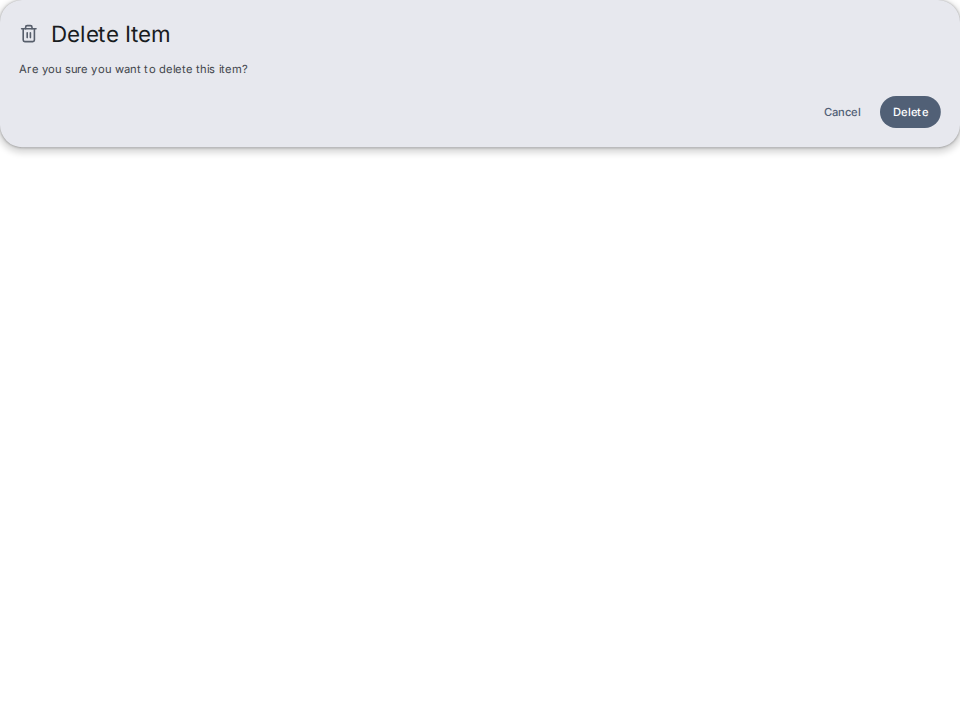
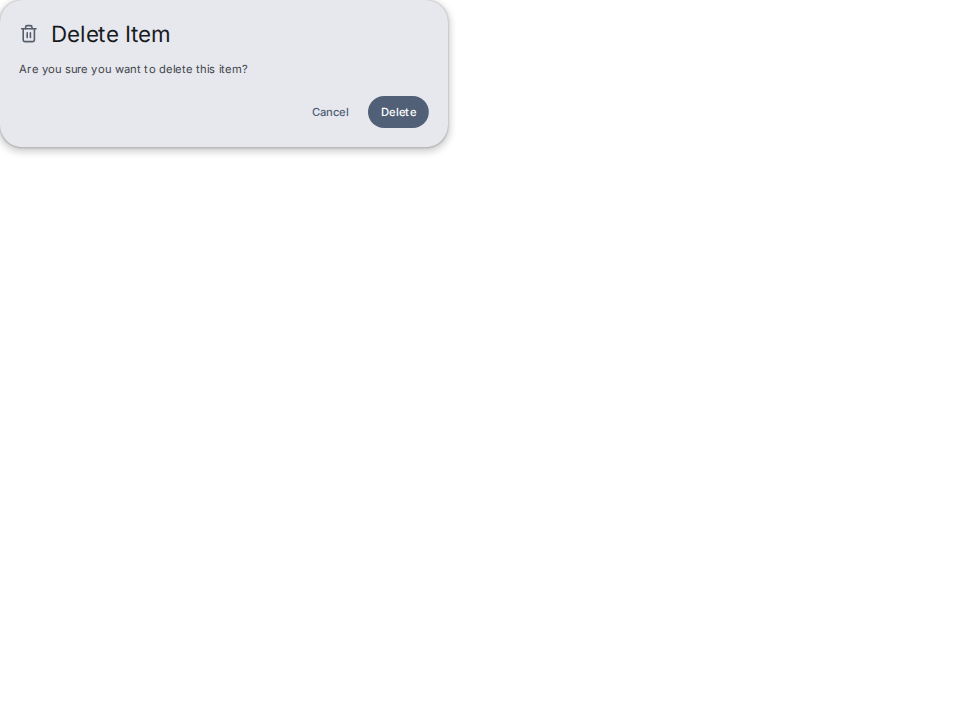
Dialog: Material's 560dp maximum, a destructive confirm, a hold while a request runs
Nine of the baseline's 22 builders met the dialog's limits. It had a minimum
width and no maximum, so long text ran the dialog across the window, and in
a modal it touched a phone's edges. Its two-action form always drew a
primary confirm, so a destructive answer meant writing both buttons by hand.
And while a confirm was loading, a second press, Cancel and Escape all still
worked.

DialogContent is now at most 560dp wide, Material's measure, and ModalDialog
keeps 16dp from the window's edges. An action takes color and isDisabled.
While an action is loading it takes no second press, the other is disabled,
and ModalDialog is dismissed by neither the scrim nor Escape.

Four dialog stories, drawn outside a modal at the window's width, are now
560dp wide: their pictures are re-baselined. One new test.

Changed region(s): [[0.3125, 0.1222, 1.0, 0.2139]]

diff --git a/components/DialogContent.tsx b/components/DialogContent.tsx
@@ -6,7 +6,8 @@ import Button from "./Button";
 
 export const styles = tv({
   slots: {
-    base: "bg-surface-container-high rounded-shape-extra-large p-6 min-w-[280px] w-full shadow-elevation-3 outline-hidden relative overflow-hidden",
+    // Material's basic dialog: at least 280dp wide, at most 560dp.
+    base: "bg-surface-container-high rounded-shape-extra-large p-6 min-w-[280px] max-w-[560px] w-full shadow-elevation-3 outline-hidden relative overflow-hidden",
     header: "mb-4",
     icon: "text-secondary",
     // No weight here: the headline this styles is `Headline`, and its weight
@@ -34,7 +35,13 @@ export type { IconProp };
 type ActionConfig = {
   label: string;
   onPress?: () => void;
+  /** The request this action started is running: it draws a spinner and
+   *  takes no second press. While `confirm` is loading, `cancel` is
+   *  disabled, and `ModalDialog` is not dismissed. */
   isLoading?: boolean;
+  isDisabled?: boolean;
+  /** `"error"` for an action that destroys something: "Delete", "Discard". */
+  color?: "primary" | "error";
 };
 
 type Actions = {
@@ -73,6 +80,19 @@ export type DialogContentProps =
  * nothing else is drawn, the `title` included: write the headline yourself
  * (`<Headline size="medium">`).
  *
+ * `actions` is two buttons, `{ confirm, cancel }`, each a `label`, an
+ * `onPress`, and `isLoading`, `isDisabled` and `color` where needed, or an
+ * element of your own:
+ *
+ *   actions={{
+ *     cancel: { label: "Cancel", onPress: close },
+ *     confirm: { label: "Delete", color: "error", isLoading: deleting, onPress: remove },
+ *   }}
+ *
+ * The dialog is between 280dp and 560dp wide, Material's measures: it takes
+ * the width its content asks for up to 560dp, and text wraps there. Another
+ * maximum is a `className` (`max-w-sm`, `max-w-none`).
+ *
  * Spec: https://m3.material.io/components/dialogs/{overview,specs,guidelines,accessibility}
  */
 export function DialogContent(props: DialogContentProps) {
@@ -99,12 +119,19 @@ export function DialogContent(props: DialogContentProps) {
         <>
           <Button
             variant="text"
-            onPress={cancel.onPress}
+            color={cancel.color}
+            onPress={cancel.isLoading ? undefined : cancel.onPress}
             isLoading={cancel.isLoading}
+            isDisabled={cancel.isDisabled || confirm.isLoading}
           >
             {cancel.label}
           </Button>
-          <Button onPress={confirm.onPress} isLoading={confirm.isLoading}>
+          <Button
+            color={confirm.color}
+            onPress={confirm.isLoading ? undefined : confirm.onPress}
+            isLoading={confirm.isLoading}
+            isDisabled={confirm.isDisabled || cancel.isLoading}
+          >
             {confirm.label}
           </Button>
         </>

diff --git a/stories/interactions/Overlays.stories.tsx b/stories/interactions/Overlays.stories.tsx
@@ -110,6 +110,78 @@ export const ModalDialogActionCloses: Story = {
   },
 };
 
+function DestructiveDialogHarness() {
+  const [open, setOpen] = useState(false);
+  const [deleting, setDeleting] = useState(false);
+  const [requests, setRequests] = useState(0);
+  return (
+    <>
+      <Button onPress={() => setOpen(true)}>Delete account</Button>
+      <Button
+        variant="text"
+        onPress={() => {
+          setDeleting(false);
+          setOpen(false);
+        }}
+      >
+        The request ends
+      </Button>
+      <p data-testid="requests">{requests}</p>
+      <ModalDialog
+        isOpen={open}
+        onClose={() => setOpen(false)}
+        title="Delete your account?"
+        supportingText="Every venue you own, its menus and its printed codes go with it, and every code already printed and stuck to a table stops answering the moment the request is made. This cannot be undone."
+        actions={{
+          cancel: { label: "Cancel", onPress: () => setOpen(false) },
+          confirm: {
+            label: "Delete",
+            color: "error",
+            isLoading: deleting,
+            onPress: () => {
+              setDeleting(true);
+              setRequests((n) => n + 1);
+            },
+          },
+        }}
+      />
+    </>
+  );
+}
+
+/**
+ * A destructive confirm in the error colour. While its request runs the
+ * dialog holds: a second press starts nothing, Cancel is disabled, Escape
+ * does not close. Long text wraps at Material's 560dp.
+ */
+export const ModalDialogHoldsWhileARequestRuns: Story = {
+  render: () => <DestructiveDialogHarness />,
+  play: async ({ canvasElement }) => {
+    const canvas = within(canvasElement);
+    await userEvent.click(
+      canvas.getByRole("button", { name: "Delete account" }),
+    );
+    const dialog = await screen.findByRole("dialog");
+    const content = dialog.querySelector("[data-slot=dialog-content]")!;
+    await expect(content.getBoundingClientRect().width).toBeLessThanOrEqual(
+      560,
+    );
+
+    const confirm = within(dialog).getByRole("button", { name: "Delete" });
+    await expect(confirm).toHaveAttribute("data-color", "error");
+    await userEvent.click(confirm);
+    await expect(canvas.getByTestId("requests")).toHaveTextContent("1");
+
+    await userEvent.click(confirm);
+    await expect(canvas.getByTestId("requests")).toHaveTextContent("1");
+    await expect(
+      within(dialog).getByRole("button", { name: "Cancel" }),
+    ).toBeDisabled();
+    await userEvent.keyboard("{Escape}");
+    await expect(screen.getByRole("dialog")).toBeVisible();
+  },
+};
+
 function ModalHarness() {
   const [open, setOpen] = useState(false);
   return (

diff --git a/components/ModalDialog.tsx b/components/ModalDialog.tsx
@@ -2,6 +2,7 @@
 
 import { Dialog, type DialogProps } from "./Dialog";
 import Modal from "./Modal";
+import { cn } from "../utils";
 
 type BaseModalDialogProps = {
   isOpen?: boolean;
@@ -20,10 +21,21 @@ export type ModalDialogProps = BaseModalDialogProps & DialogProps;
  * question that has to be answered, so clicking the scrim must not count as an
  * answer. Escape still closes, which is the platform contract for any modal.
  *
+ * While an action of `actions` is loading, nothing dismisses the dialog:
+ * not the scrim, not Escape. Close it when the request ends.
+ *
+ * The basic dialog keeps 16dp from the window's edges and is at most 560dp
+ * wide, Material's maximum; `className` gives another (`max-w-sm`).
+ *
  * Spec: https://m3.material.io/components/dialogs/{overview,specs,guidelines,accessibility}
  */
 export function ModalDialog(props: ModalDialogProps) {
   const { isOpen, onClose, variant = "basic", ...dialogProps } = props;
+  const { actions } = dialogProps;
+  const isPending =
+    !!actions &&
+    "confirm" in actions &&
+    !!(actions.confirm.isLoading || actions.cancel.isLoading);
 
   return (
     <Modal
@@ -31,15 +43,20 @@ export function ModalDialog(props: ModalDialogProps) {
       onOpenChange={(open) => {
         if (!open) onClose?.();
       }}
-      isDismissable={dialogProps.role !== "alertdialog"}
+      isDismissable={dialogProps.role !== "alertdialog" && !isPending}
+      isKeyboardDismissDisabled={isPending}
       isAnimated={variant !== "fullscreen"}
       className={
-        variant === "fullscreen"
-          ? "flex items-center justify-center"
-          : undefined
+        variant === "fullscreen" ? "flex items-center justify-center" : "mx-4"
       }
     >
-      <Dialog {...dialogProps} />
+      <Dialog
+        {...dialogProps}
+        className={cn(
+          variant === "fullscreen" && "max-w-none",
+          dialogProps.className,
+        )}
+      />
     </Modal>
   );
 }
